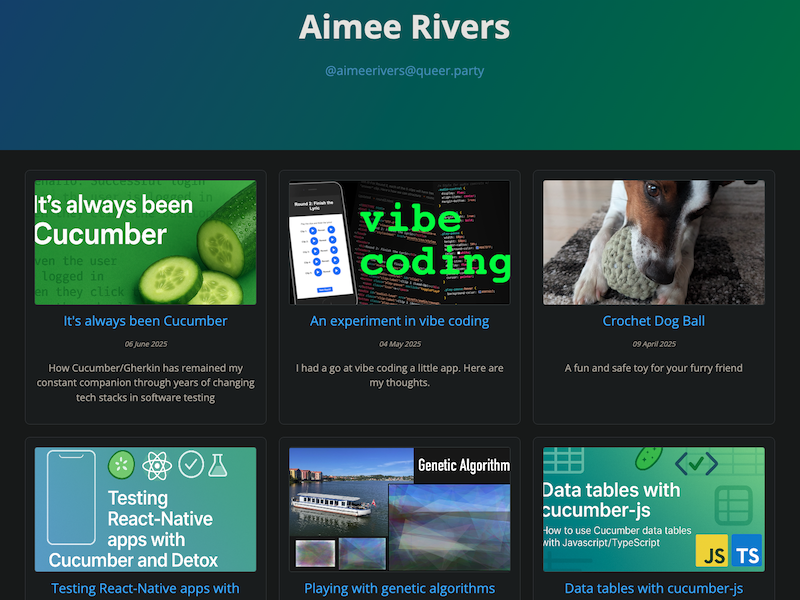
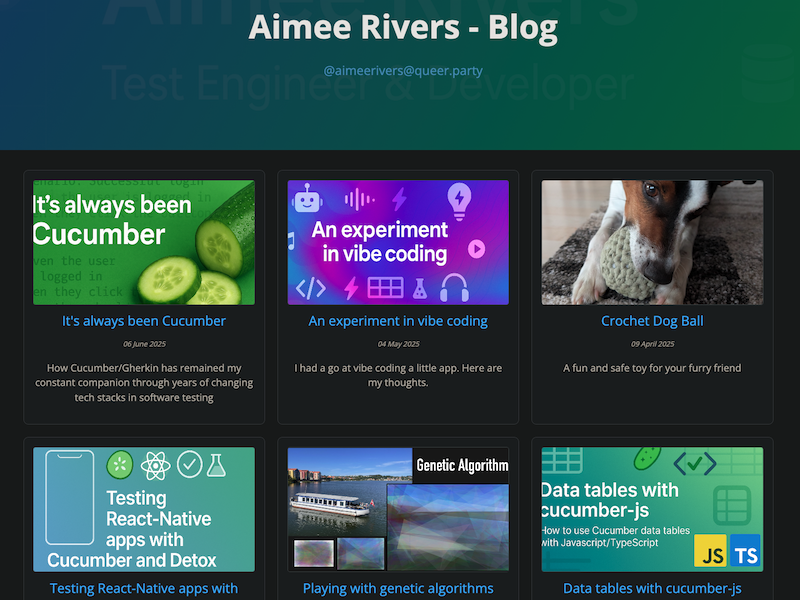
feat: Update og-images and blog preview image

diff --git a/blog/index.html b/blog/index.html
@@ -2,7 +2,7 @@
 layout: default
 title: Aimee Rivers - Blog
 description: <a rel='me' href='https://queer.party/@aimeerivers'>@aimeerivers@queer.party</a>
-image: https://www.aimeerivers.com/assets/images/og-image.png
+image: https://www.aimeerivers.com/assets/images/blog/og-image.png
 ---
 
 <!-- This loops through the paginated posts -->

diff --git a/_posts/2025-05-04-vibe-coding.md b/_posts/2025-05-04-vibe-coding.md
@@ -2,7 +2,7 @@
 layout: default
 title: An experiment in vibe coding
 description: I had a go at vibe coding a little app. Here are my thoughts.
-image: https://www.aimeerivers.com/assets/images/vibe-coding/og-image.jpg
+image: https://www.aimeerivers.com/assets/images/vibe-coding/og-image.png
 ---
 
 <img src="/assets/images/vibe-coding/music-quiz-app.png" style="float: right; margin: 0 0 1em 1em; width: 40%; max-width: 300px;">

diff --git a/index.md b/index.md
@@ -1,7 +1,8 @@
 ---
 layout: default
-title: Aimee Rivers - Portfolio
 light_mode: true
+title: Aimee Rivers - Portfolio
+image: https://www.aimeerivers.com/assets/images/og-image.png
 ---
 
 # Welcome to my portfolio
